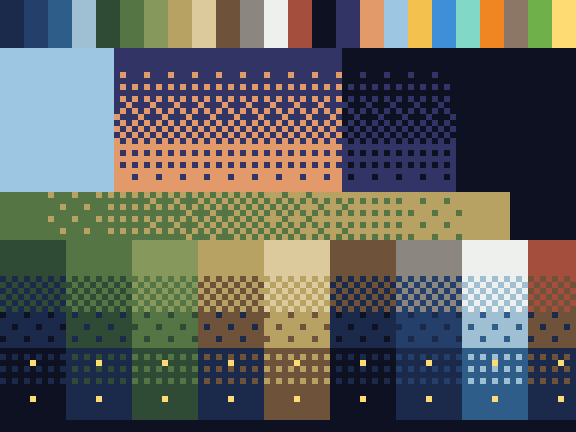
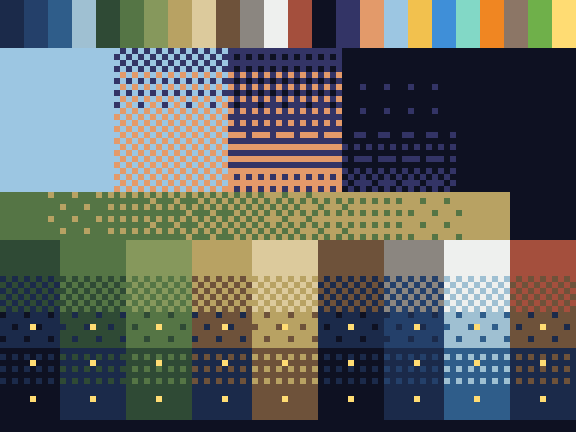
fix(render): review findings on the palette and light (B-009)
- The sky moves by its own keyframes, dithered from one to the next, instead
  of jumping at each period boundary (test across every boundary).
- Emissive pixels show once the sun is below the horizon, not from -4°, when
  the land was already 1.5 steps dark (test at -3.9°).
- tinted() reads a NaN darkness as night and caps a huge one, instead of
  drawing NaN as day and looping forever on Infinity (test).
- getPixel throws outside the surface instead of reading the next row (test).
- The frame hash mixes all 4 bytes of each size, with an indexed loop (test
  beyond 16 bits; the naive reference follows).
- Gradients give every mix level the same height (test on 34 rows).
- The test card's land strip fills its 96 columns with 9 colours.
- The Chromium check compares every recorded frame, not only the test card.
- vite.e2e.config.ts resolves its input from the file, not the cwd.
- PRD § Art direction names the four light periods.

Claude-Session: https://claude.ai/code/session_015fegM51PAXWmEV65tJ3W6Y

diff --git a/src/sky/light.ts b/src/sky/light.ts
@@ -25,14 +25,35 @@ export const DARKNESS_KEYFRAMES: readonly (readonly [number, number])[] = [
   [6, 0],
 ];
 
+/**
+ * Sky gradient keyframes: zenith and horizon colours at given solar elevations. In
+ * between, each end moves from one keyframe's colour to the next by dithering, so the
+ * sky never jumps; beyond the ends it stays. Night is the night sky; at −4° the
+ * horizon is blue; at sunrise and sunset it is golden under a blue zenith; at 6° the
+ * day's sky.
+ */
+export const SKY_KEYFRAMES: readonly (readonly [number, ColourName, ColourName])[] = [
+  [-12, "skyNight", "skyNight"],
+  [-4, "skyNight", "skyBlueHour"],
+  [0, "skyBlueHour", "skyGolden"],
+  [6, "skyDay", "skyDay"],
+];
+
+/** The most darkness the tint counts: past it every chain has reached skyNight. */
+const MAX_DARKNESS = 16;
+
 export interface Light {
   readonly period: Period;
   /** Land darkness in palette steps, 0 (day) to 2 (night), fractional in between. */
   readonly darkness: number;
-  /** Sky gradient, zenith (top) to horizon (bottom). */
+  /** Sky gradient, zenith (top) to horizon (bottom): each end is a mix (0–16) of a
+   * colour and the next keyframe's, at `skyLevel`. */
   readonly skyTop: ColourName;
+  readonly skyTopNext: ColourName;
   readonly skyHorizon: ColourName;
-  /** Whether windows, beacons and other emissive pixels are drawn. */
+  readonly skyHorizonNext: ColourName;
+  readonly skyLevel: number;
+  /** Whether windows, beacons and other emissive pixels are drawn: sun below the horizon. */
   readonly emissive: boolean;
 }
 
@@ -57,33 +78,66 @@ export function darknessAt(elevation: number): number {
   return last[1];
 }
 
-const SKY: Readonly<Record<Period, readonly [ColourName, ColourName]>> = {
-  night: ["skyNight", "skyNight"],
-  blueHour: ["skyNight", "skyBlueHour"],
-  goldenHour: ["skyBlueHour", "skyGolden"],
-  day: ["skyDay", "skyDay"],
-};
+/** The sky's two ends at a solar elevation, and how far each is towards the next. */
+function skyAt(
+  elevation: number,
+): Pick<Light, "skyTop" | "skyTopNext" | "skyHorizon" | "skyHorizonNext" | "skyLevel"> {
+  const first = SKY_KEYFRAMES[0] ?? [0, "skyNight", "skyNight"];
+  const last = SKY_KEYFRAMES[SKY_KEYFRAMES.length - 1] ?? first;
+  let from = first;
+  let to = first;
+  let fraction = 0;
+  if (elevation >= last[0]) from = to = last;
+  else if (elevation > first[0]) {
+    // NaN fails both tests above and stays at night.
+    for (let i = 1; i < SKY_KEYFRAMES.length; i++) {
+      to = SKY_KEYFRAMES[i] ?? last;
+      from = SKY_KEYFRAMES[i - 1] ?? first;
+      if (elevation < to[0]) break;
+    }
+    fraction = (elevation - from[0]) / (to[0] - from[0]);
+  }
+  return {
+    skyTop: from[1],
+    skyTopNext: to[1],
+    skyHorizon: from[2],
+    skyHorizonNext: to[2],
+    skyLevel: ditherLevel(fraction),
+  };
+}
 
 export function lightAt(elevation: number): Light {
-  const period = periodOf(elevation);
-  const [skyTop, skyHorizon] = SKY[period];
   return {
-    period,
+    period: periodOf(elevation),
     darkness: darknessAt(elevation),
-    skyTop,
-    skyHorizon,
-    emissive: period === "night" || period === "blueHour",
+    ...skyAt(elevation),
+    emissive: !(elevation >= 0), // NaN reads as night
   };
+}
+
+/**
+ * The sky's colour at (x, y), `level` (0–16) of the way from zenith to horizon. The
+ * keyframe mix uses the Bayer pattern shifted by (1, 2), so that it does not line up
+ * with the gradient's own.
+ */
+export function skyColour(light: Light, level: number, x: number, y: number): ColourName {
+  const next = takesSecond(x + 1, y + 2, light.skyLevel);
+  if (takesSecond(x, y, level)) return next ? light.skyHorizonNext : light.skyHorizon;
+  return next ? light.skyTopNext : light.skyTop;
 }
 
 /**
  * The colour a land pixel at (x, y) is drawn in under `darkness`: its own colour,
  * whole steps darker, and one more step on the share of pixels the fraction asks for
- * (ordered dithering, so the change is even across the land).
+ * (ordered dithering, so the change is even across the land). A darkness that is not
+ * a number reads as night; past 16 steps every colour is skyNight anyway.
  */
 export function tinted(colour: ColourName, darkness: number, x: number, y: number): ColourName {
-  const whole = Math.floor(Math.max(0, darkness));
-  const level = ditherLevel(Math.max(0, darkness) - whole);
+  const d = Number.isNaN(darkness)
+    ? darknessAt(Number.NaN)
+    : Math.min(MAX_DARKNESS, Math.max(0, darkness));
+  const whole = Math.floor(d);
+  const level = ditherLevel(d - whole);
   if (level === DITHER_LEVELS) return darken(colour, whole + 1);
   return darken(colour, whole + (takesSecond(x, y, level) ? 1 : 0));
 }

diff --git a/tests/render.test.ts b/tests/render.test.ts
@@ -17,7 +17,15 @@ import {
 } from "../src/render/palette";
 import { createSurface, getPixel, hashSurface, setPixel } from "../src/render/surface";
 import { drawTestCard } from "../src/render/test-card";
-import { darknessAt, DARKNESS_KEYFRAMES, lightAt, periodOf, tinted } from "../src/sky/light";
+import {
+  darknessAt,
+  DARKNESS_KEYFRAMES,
+  lightAt,
+  periodOf,
+  SKY_KEYFRAMES,
+  skyColour,
+  tinted,
+} from "../src/sky/light";
 import hashes from "./fixtures/frames/hashes.json";
 
 const SOURCES: readonly ColourName[] = [
@@ -38,6 +46,22 @@ describe("Surface", () => {
     expect(getPixel(s, 2, 1)).toEqual([1, 2, 3]);
     expect(() => createSurface(-1, 2)).toThrow();
     expect(() => createSurface(1.5, 2)).toThrow();
+  });
+
+  it("tells sizes apart beyond 16 bits (all 4 bytes of each size are hashed)", () => {
+    expect(hashSurface(createSurface(65537, 0))).not.toBe(hashSurface(createSurface(1, 0)));
+  });
+
+  it("refuses to read a pixel outside the surface, rather than one of the next row", () => {
+    const s = createSurface(2, 2);
+    setPixel(s, 0, 1, [7, 7, 7]);
+    for (const [x, y] of [
+      [2, 0],
+      [-1, 0],
+      [0, 2],
+      [0.5, 0],
+    ] as const)
+      expect(() => getPixel(s, x, y), `${String(x)}, ${String(y)}`).toThrow(RangeError);
   });
 
   it("clips pixels outside the surface", () => {
@@ -67,7 +91,7 @@ describe("Surface", () => {
         seed = (Math.imul(seed, 1664525) + 1013904223) >>> 0;
         s.data[i] = seed >>> 24;
       }
-      expect(hashSurface(s)).toBe(naive([w & 255, w >> 8, h & 255, h >> 8, ...s.data]));
+      expect(hashSurface(s)).toBe(naive([w, 0, 0, 0, h, 0, 0, 0, ...s.data]));
     }
   });
 
@@ -146,6 +170,20 @@ describe("ordered dithering", () => {
       expect(getPixel(s, x, 0)).toEqual(PALETTE.skyNight);
       expect(getPixel(s, x, 16)).toEqual(PALETTE.skyGolden);
     }
+    // Every level is as wide as the others, give or take a row: 17 levels over 34
+    // rows, two rows each (the first fix made the last level one row only).
+    const g = createSurface(4, 34);
+    fillGradient(g, 0, 0, 4, 34, "skyNight", "skyGolden");
+    const rows = new Map<number, number>();
+    for (let y = 0; y < 34; y++) {
+      let golden = 0;
+      for (let x = 0; x < 4; x++)
+        if (getPixel(g, x, y).join() === PALETTE.skyGolden.join()) golden++;
+      rows.set(y, golden);
+    }
+    expect(rows.get(32)).toBe(4);
+    expect(rows.get(33)).toBe(4);
+    expect(rows.get(31)).toBeLessThan(4);
     const t = createSurface(8, 8);
     fillDithered(t, 0, 0, 8, 8, "grass", "field", 5);
     const colours = new Set<string>();
@@ -177,12 +215,39 @@ describe("light keyframes", () => {
     }
   });
 
-  it("lights windows only at blue hour and at night", () => {
+  it("lights windows once the sun is below the horizon, with the land a full step dark", () => {
     expect(lightAt(30).emissive).toBe(false);
     expect(lightAt(0).emissive).toBe(false);
+    expect(lightAt(-0.01).emissive).toBe(true);
+    // At −3.9° the land is almost 1.5 steps dark: the windows must be lit (review).
+    expect(lightAt(-3.9).emissive).toBe(true);
     expect(lightAt(-8).emissive).toBe(true);
     expect(lightAt(-30).emissive).toBe(true);
+    expect(lightAt(Number.NaN).emissive).toBe(true);
     expect(lightAt(30)).toMatchObject({ skyTop: "skyDay", skyHorizon: "skyDay", darkness: 0 });
+  });
+
+  it("moves the sky by keyframes without a jump at any period boundary", () => {
+    for (const [e, top, horizon] of SKY_KEYFRAMES)
+      expect(lightAt(e), String(e)).toMatchObject({ skyTop: top, skyHorizon: horizon });
+    // Across each boundary of the periods, at most one 16th of a step.
+    for (const boundary of [-12, -4, 0, 6]) {
+      const before = lightAt(boundary - 0.01);
+      const after = lightAt(boundary);
+      for (let y = 0; y < 4; y++)
+        for (let x = 0; x < 4; x++)
+          for (const level of [0, 16]) {
+            const a = skyColour(before, level, x, y);
+            const b = skyColour(after, level, x, y);
+            if (a !== b) expect(before.skyLevel, `${String(boundary)}°`).toBeGreaterThanOrEqual(15);
+          }
+    }
+  });
+
+  it("reads a NaN darkness as night, and a huge one as the darkest colour", () => {
+    expect(tinted("grass", Number.NaN, 0, 0)).toBe(darken("grass", 2));
+    expect(tinted("grass", Number.POSITIVE_INFINITY, 0, 0)).toBe("skyNight");
+    expect(tinted("grass", -3, 0, 0)).toBe("grass");
   });
 
   it("tints by whole steps, and a fraction by its share of each 4 × 4 block", () => {

diff --git a/src/render/test-card.ts b/src/render/test-card.ts
@@ -4,10 +4,10 @@
  * (AGENTS.md § Determinism; tests/render.test.ts and e2e/frame-hash.spec.ts). It is
  * also a quick way to look at the palette (tools/preview-palette.ts).
  */
-import { fillDithered, fillGradient } from "./dither.ts";
+import { fillDithered } from "./dither.ts";
 import { COLOUR_NAMES, type ColourName, PALETTE } from "./palette.ts";
 import { createSurface, setPixel, type Surface } from "./surface.ts";
-import { lightAt, tinted } from "../sky/light.ts";
+import { lightAt, skyColour, tinted } from "../sky/light.ts";
 
 export const TEST_CARD_WIDTH = 96;
 export const TEST_CARD_HEIGHT = 72;
@@ -22,10 +22,14 @@ export function drawTestCard(): Surface {
   COLOUR_NAMES.forEach((name, i) => {
     fillDithered(s, i * 4, 0, 4, 8, name, name, 0);
   });
-  // Row 2: the five skies, as gradients from zenith to horizon.
+  // Row 2: the five skies, from zenith (level 0) to horizon (level 16).
   TEST_CARD_ELEVATIONS.forEach((elevation, i) => {
     const light = lightAt(elevation);
-    fillGradient(s, i * 19, 8, 19, 24, light.skyTop, light.skyHorizon);
+    for (let row = 0; row < 24; row++) {
+      const level = Math.floor((2 * row * 16 + 23) / 46);
+      for (let x = i * 19; x < i * 19 + 19; x++)
+        setPixel(s, x, 8 + row, PALETTE[skyColour(light, level, x, 8 + row)]);
+    }
   });
   // Row 3: the 17 mix levels between two land colours.
   for (let level = 0; level <= 16; level++) {
@@ -45,13 +49,15 @@ export function drawTestCard(): Surface {
   ];
   TEST_CARD_ELEVATIONS.forEach((elevation, row) => {
     const light = lightAt(elevation);
-    for (let x = 0; x < TEST_CARD_WIDTH; x++) {
-      const name = land[Math.floor(x / 11)] ?? "sea";
-      for (let y = 40 + row * 6; y < 46 + row * 6; y++) {
-        setPixel(s, x, y, PALETTE[tinted(name, light.darkness, x, y)]);
-      }
-      if (light.emissive && x % 11 === 5) setPixel(s, x, 42 + row * 6, PALETTE.lamp);
-    }
+    land.forEach((name, i) => {
+      // Column i spans [i × 96 / 9, (i + 1) × 96 / 9): the 9 colours fill the width.
+      const from = Math.floor((i * TEST_CARD_WIDTH) / land.length);
+      const to = Math.floor(((i + 1) * TEST_CARD_WIDTH) / land.length);
+      for (let x = from; x < to; x++)
+        for (let y = 40 + row * 6; y < 46 + row * 6; y++)
+          setPixel(s, x, y, PALETTE[tinted(name, light.darkness, x, y)]);
+      if (light.emissive) setPixel(s, (from + to) >> 1, 42 + row * 6, PALETTE.lamp);
+    });
   });
   return s;
 }

diff --git a/src/render/surface.ts b/src/render/surface.ts
@@ -27,14 +27,19 @@ export function setPixel(surface: Surface, x: number, y: number, colour: Rgb): v
   surface.data[i + 3] = 255;
 }
 
-/** The colour of one pixel, alpha left out. */
+/** The colour of one pixel, alpha left out; a pixel outside the surface throws. */
 export function getPixel(surface: Surface, x: number, y: number): Rgb {
+  if (!(Number.isInteger(x) && Number.isInteger(y)) || x < 0 || y < 0)
+    throw new RangeError(`no pixel at ${String(x)}, ${String(y)}`);
+  if (x >= surface.width || y >= surface.height)
+    throw new RangeError(`no pixel at ${String(x)}, ${String(y)}`);
   const i = (y * surface.width + x) * 4;
   return [surface.data[i] ?? 0, surface.data[i + 1] ?? 0, surface.data[i + 2] ?? 0];
 }
 
 /**
- * FNV-1a (32-bit) over every byte of the buffer, with its size, as 8 hex digits: the
+ * FNV-1a (32-bit) over its size (4 bytes each, little-endian) and every byte of the
+ * buffer, as 8 hex digits: the
  * frame hash of the determinism tests (AGENTS.md § Determinism). Integer arithmetic
  * only, so every engine gives the same value for the same frame.
  */
@@ -43,10 +48,9 @@ export function hashSurface(surface: Surface): string {
   const mix = (byte: number): void => {
     h = Math.imul(h ^ byte, 0x01000193) >>> 0;
   };
-  for (const n of [surface.width, surface.height]) {
-    mix(n & 0xff);
-    mix((n >>> 8) & 0xff);
-  }
-  for (const byte of surface.data) mix(byte);
+  for (const n of [surface.width, surface.height])
+    for (let shift = 0; shift < 32; shift += 8) mix((n >>> shift) & 0xff);
+  const data = surface.data;
+  for (let i = 0; i < data.length; i++) mix(data[i] ?? 0);
   return h.toString(16).padStart(8, "0");
 }

diff --git a/src/render/dither.ts b/src/render/dither.ts
@@ -65,8 +65,10 @@ export function fillGradient(
   second: ColourName,
 ): void {
   for (let row = 0; row < height; row++) {
-    // Integer division: the row's level, from 0 on the top row to 16 on the bottom one.
-    const level = height > 1 ? Math.floor((row * DITHER_LEVELS) / (height - 1)) : 0;
+    // The row's level, rounded in integers: 0 on the top row, 16 on the bottom one,
+    // every level in between as wide as the others.
+    const level =
+      height > 1 ? Math.floor((2 * row * DITHER_LEVELS + (height - 1)) / (2 * (height - 1))) : 0;
     fillDithered(surface, left, top + row, width, 1, first, second, level);
   }
 }

diff --git a/vite.e2e.config.ts b/vite.e2e.config.ts
@@ -1,3 +1,4 @@
+import { fileURLToPath } from "node:url";
 import { defineConfig } from "vite";
 
 /**
@@ -11,7 +12,10 @@ export default defineConfig({
     target: "es2022",
     outDir: "../dist-e2e",
     emptyOutDir: true,
-    rolldownOptions: { input: { "frame-hash": "e2e/frame-hash.html" } },
+    // Resolved from this file, so the build works from any working directory.
+    rolldownOptions: {
+      input: { "frame-hash": fileURLToPath(new URL("./e2e/frame-hash.html", import.meta.url)) },
+    },
   },
   preview: { port: 4180, strictPort: true },
 });

diff --git a/e2e/frame-hash.spec.ts b/e2e/frame-hash.spec.ts
@@ -15,6 +15,11 @@ test("draws the same frames as Node", async ({ page }) => {
     string,
     string
   >;
-  expect(hashes["test-card"]).toBe(expected["test-card"]);
+  // Every recorded frame, so that a frame added to the fixture is checked here too.
+  const frames = Object.fromEntries(
+    Object.entries(expected).filter(([name]) => name !== "_comment"),
+  );
+  expect(Object.keys(frames).length).toBeGreaterThan(0);
+  expect(hashes).toEqual(frames);
   expect(errors).toEqual([]);
 });

diff --git a/docs/ARCHITECTURE.md b/docs/ARCHITECTURE.md
@@ -400,14 +400,17 @@ A missing figure shows the element **idle** (no motion, no glow) and the caption
   only animates the scene (light, sky colour, the moon's drawing); it never decides
   what the world contains (§ World generation).
 - **Light keyframes** (`src/sky/light.ts`) by geometric solar elevation: night
-  (< −12°), blue hour (−12° to −4°), golden hour (−4° to 6°), day (≥ 6°). Each
-  period sets a sky gradient (night: skyNight; blue hour: skyNight to skyBlueHour;
-  golden hour: skyBlueHour to skyGolden; day: skyDay) and whether emissive pixels
-  show (blue hour and night). The land's **darkness** is counted in palette steps
+  (< −12°), blue hour (−12° to −4°), golden hour (−4° to 6°), day (≥ 6°). The sky
+  gradient, zenith to horizon, has its own keyframes (−12°: skyNight to skyNight;
+  −4°: skyNight to skyBlueHour; 0°: skyBlueHour to skyGolden; 6°: skyDay), each end
+  dithered from one keyframe's colour to the next, so the sky never jumps. Emissive
+  pixels show once the sun is below the horizon (< 0°), when the land is a full step
+  dark. The land's **darkness** is counted in palette steps
   (`DARKER`, § Art direction), linear between keyframes: 0 at 6° and above, 1 at
   0°, 1.5 at −4°, 2 at −12° and below (provisional: 2 steps keep the land readable
   at night). A fractional step is drawn by dithering between the two whole steps,
-  so the land stays in palette. A `NaN` elevation reads as night.
+  so the land stays in palette. A `NaN` elevation, or a `NaN` darkness, reads as
+  night.
 - **Weather layers:** clouds (count and darkness from `cloud_cover`, drifting with
   the wind), rain and snow particles, fog banks (dithered), lightning flashes for
   storms. Particles are seeded (PRNG) so frames stay reproducible.

diff --git a/docs/PRD.md b/docs/PRD.md
@@ -207,7 +207,7 @@ Shared principles for either (details: ARCHITECTURE § Art direction):
 - **Colour carries meaning:** each source has one signature colour used for its plants
   and in the legend (nuclear, hydro, wind, solar, thermal, bioenergy); the land
   stays muted so that the energy stands out.
-- **Light carries time:** one global light tint (dawn, day, golden hour, dusk, night)
+- **Light carries time:** one global light tint (night, blue hour, golden hour, day)
   plus emissive pixels (windows, beacons, plumes lit from below) drawn on top at night.
 - **The land carries the season:** one land palette per season, blended cell by
   cell over weeks (§4.7b).
